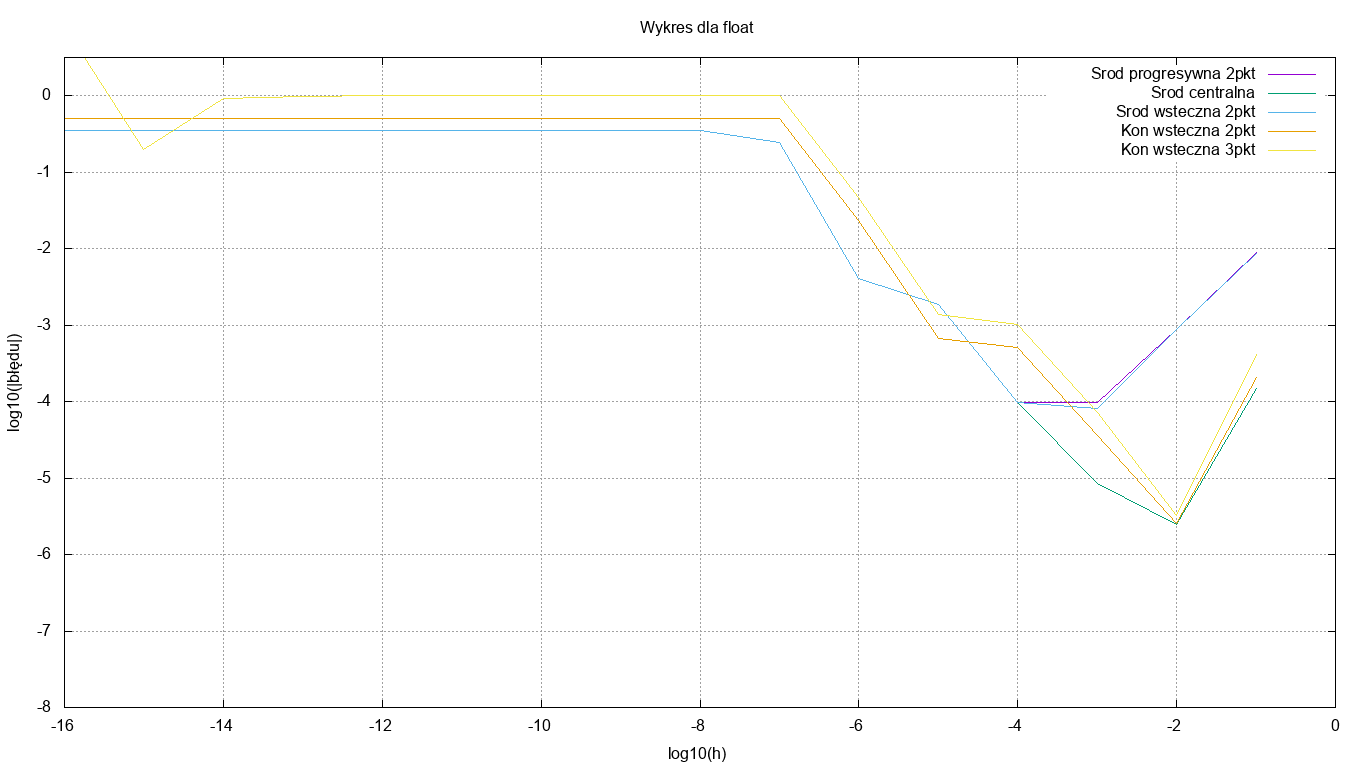
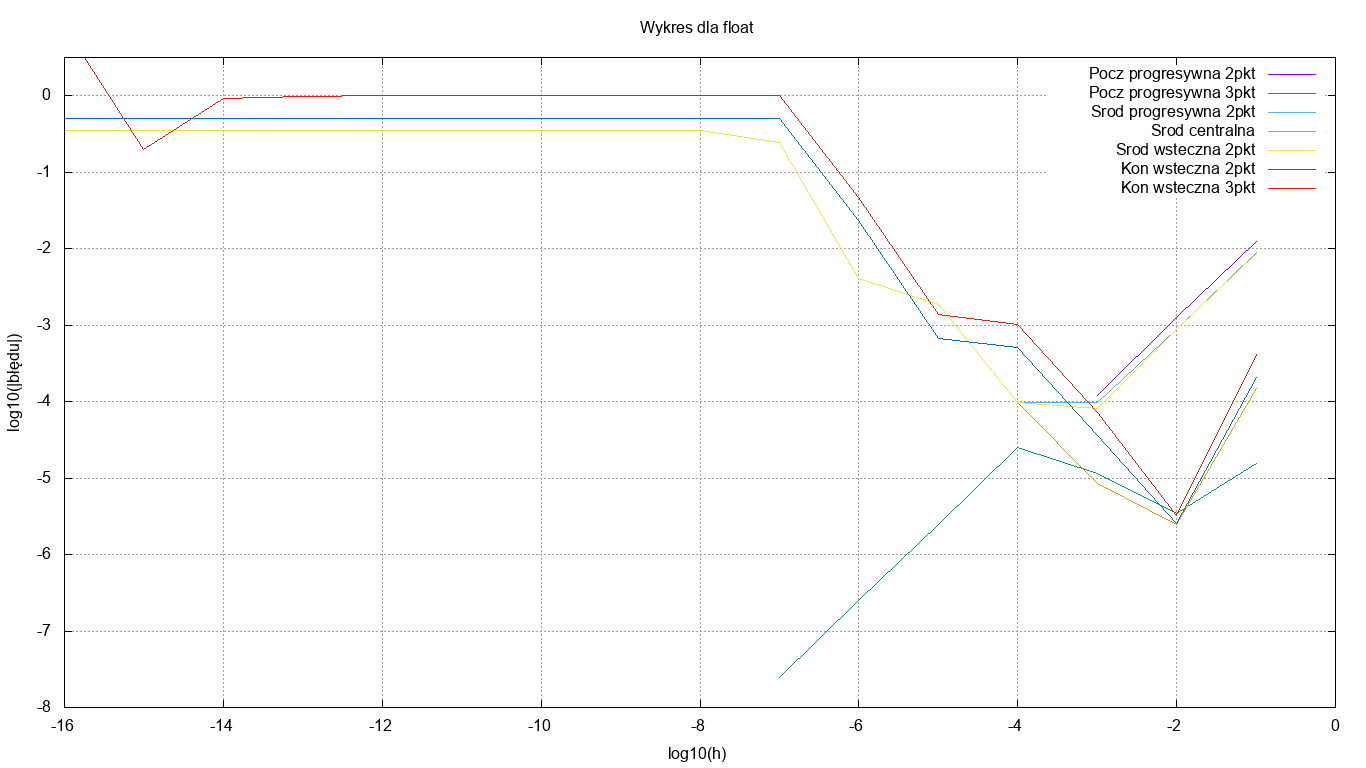
After 8

Changed region(s): [[0.7994, 0.0938, 0.9224, 0.25], [0.7687, 0.5, 0.7994, 0.5312]]

diff --git a/main_8.cpp b/main_8.cpp
@@ -7,7 +7,7 @@ using namespace std;
 #define PI 3.14159265358979323846
 #define STEP 0.1
 #define STEP_COUNT 20
-#define METHOD_COUNT 5
+#define METHOD_COUNT 7
 
 template<typename T> void zapis_danych(T *kroki, T **wyniki);
 
@@ -47,11 +47,13 @@ template<typename T> void oblicz_roznice(T *kroki, T **wyniki) {
     for (int i = 0; i < STEP_COUNT; i++) {
         kroki[i] = krok;
 
-        wyniki[0][i] = fabs(pochodna(srodek) - roznica_wsteczna(srodek, krok));
-        wyniki[1][i] = fabs(pochodna(srodek) - roznica_centralna(srodek, krok));
-        wyniki[2][i] = fabs(pochodna(srodek) - roznica_progresywna(srodek, krok));
-        wyniki[3][i] = fabs(pochodna(koniec) - roznica_wsteczna(koniec, krok));
-        wyniki[4][i] = fabs(pochodna(koniec) - roznica_wsteczna_trzypunktowa(koniec, krok));
+        wyniki[0][i] = fabs(pochodna(poczatek) - roznica_progresywna(poczatek, krok));
+        wyniki[1][i] = fabs(pochodna(poczatek) - roznica_progresywna_trzypunktowa(poczatek, krok));
+        wyniki[2][i] = fabs(pochodna(srodek) - roznica_wsteczna(srodek, krok));
+        wyniki[3][i] = fabs(pochodna(srodek) - roznica_centralna(srodek, krok));
+        wyniki[4][i] = fabs(pochodna(srodek) - roznica_progresywna(srodek, krok));
+        wyniki[5][i] = fabs(pochodna(koniec) - roznica_wsteczna(koniec, krok));
+        wyniki[6][i] = fabs(pochodna(koniec) - roznica_wsteczna_trzypunktowa(koniec, krok));
         krok /= 10;
     }
 }
@@ -87,11 +89,13 @@ template<typename T> void zapis_danych(T *kroki, T **wyniki) {
     string *opisy;
     opisy = new string[METHOD_COUNT + 1];
     opisy[0] = "Krok";
-    opisy[1] = "center wst2";
-    opisy[2] = "center centr";
-    opisy[3] = "center prog2";
-    opisy[4] = "end wst2";
-    opisy[5] = "end wst3";
+    opisy[1] = "pocz prog2";
+    opisy[2] = "pocz prog3";
+    opisy[3] = "center wst2";
+    opisy[4] = "center centr";
+    opisy[5] = "center prog2";
+    opisy[6] = "end wst2";
+    opisy[7] = "end wst3";
 
     fstream plik;
     string nazwa = "data/data_";

diff --git a/main_7.cpp b/main_7.cpp
@@ -91,19 +91,20 @@ void solve_jacoby(double **A, double *x_old, double *x, double *b) {
         for (int i = 0; i < SIZE; i++) {
             sum = 0.0;
             for (int j = 0; j < SIZE; j++) {
-                if (j != i) {
+                if (j != i) { 
+                   // A to jest L + U poniewaz pomijamy glowna przekatna
                    sum += A[i][j] * x_old[j];
                 } 
             }
             x_old[i] = x[i];
-            x[i] = (b[i] - sum) / A[i][i];
+            x[i] = (b[i] - sum) / A[i][i]; // D^-1
         }
         print_table_row(A, x_old, x, b);  
     } while (iteration_counter++ < MAX_ITERATION_COUNT && estimator(x_old, x) > MAX_ERROR && residuum(A, b, x) > PRECISION);
 
     // Arbitralne ilość iteracji
-    // Kryterium dokładności wyznaczenia xn
-    // Kryterium wiarygodności xn jako przybliżenie pierwiastka
+    // Kryterium dokładności wyznaczenia xn - estymator
+    // Kryterium wiarygodności xn jako przybliżenie pierwiastka - residuum
 }
 
 void solve_gaussa_seidel(double **A, double *x_old, double *x, double *b) {
